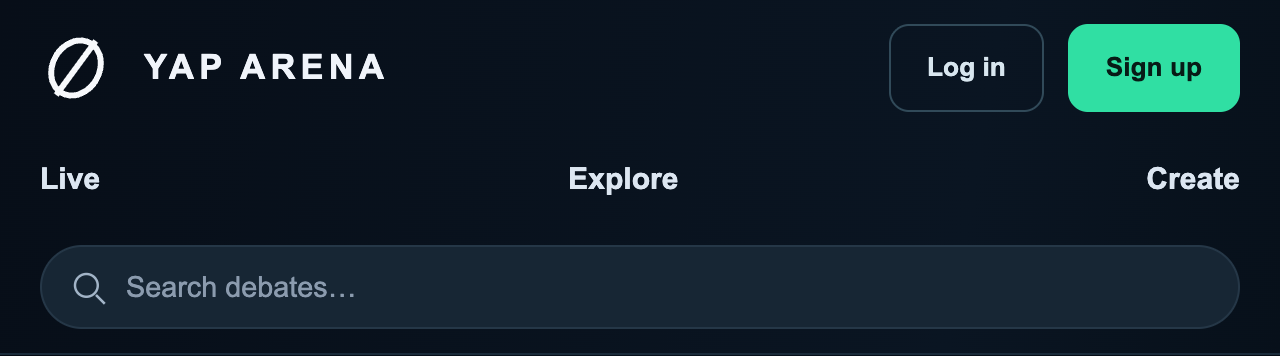
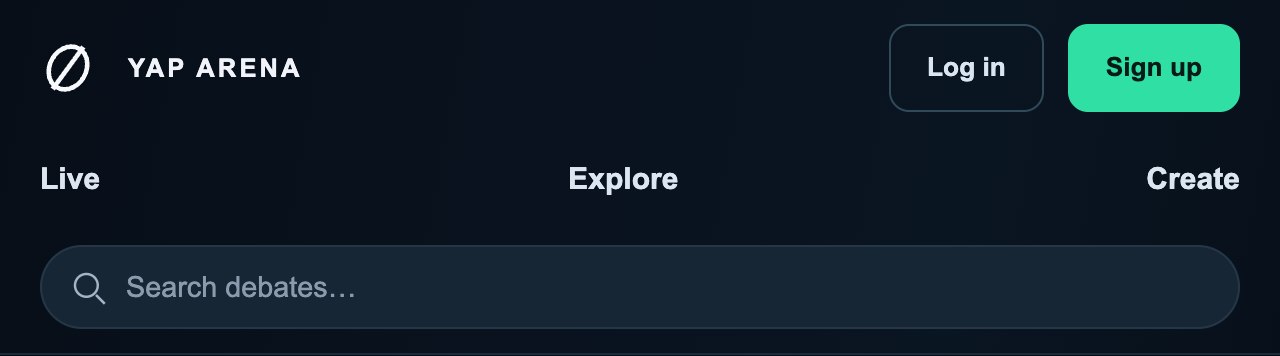
Keep responsive navigation styles shared across pages

Changed region(s): [[0.0312, 0.0927, 0.3125, 0.2781]]

diff --git a/scripts/verify-email-auth-browser.ts b/scripts/verify-email-auth-browser.ts
@@ -64,6 +64,13 @@ app.get("/test/entry", (_request, response) =>
       ),
   ),
 );
+app.get("/test/header-only", (_request, response) =>
+  response.send(
+    renderAbout(base)
+      .replace('<html lang="en">', '<html lang="en" data-email-first>')
+      .replace(/<link rel="stylesheet" href="\/assets\/arena\.css[^"]*">/, ""),
+  ),
+);
 app.get("/test/debate", (_request, response) =>
   response.send(`<!doctype html><html lang="en" data-email-first><head><title>Auth return fixture</title><link rel="stylesheet" href="/assets/site.css"><link rel="stylesheet" href="/assets/arena.css"><link rel="stylesheet" href="/assets/site-header.css"><script defer src="/test/axe.js"></script></head><body>
   <main><a href="/account?next=%2Ftest%2Fdebate" id="return-link">Sign in to participate</a>
@@ -193,11 +200,66 @@ try {
         await page.locator("[data-site-header]").screenshot({
           path: resolve(directory, `header-${state}-zoom.png`),
         });
+        checks.push(`${name}: ${state} header reflows at 200% CSS zoom`);
       } finally {
         await page.evaluate(() => {
           document.documentElement.style.zoom = "";
         });
         await page.setViewportSize(viewport);
+      }
+    }
+    async function compareSharedHeaderStyles() {
+      const other = await context.newPage();
+      try {
+        await other.goto(`${base}/test/header-only`);
+        await other
+          .locator('[data-site-header][data-session="guest"]')
+          .waitFor();
+        await other.evaluate(() => document.fonts.ready);
+        const snapshot = () =>
+          [
+            ".brand",
+            ".arena-brand-symbol",
+            ".arena-nav nav",
+            ".arena-nav nav a",
+            ".arena-header-search",
+            ".arena-header-search input",
+            ".arena-header-account",
+            ".header-login",
+            ".header-signup",
+          ].map((selector) => {
+            const node = document.querySelector(selector)!;
+            const style = getComputedStyle(node);
+            const bounds = node.getBoundingClientRect();
+            return {
+              selector,
+              fontSize: style.fontSize,
+              fontFamily: style.fontFamily,
+              lineHeight: style.lineHeight,
+              color: style.color,
+              background: style.backgroundColor,
+              borderWidth: style.borderWidth,
+              borderRadius: style.borderRadius,
+              letterSpacing: style.letterSpacing,
+              padding: style.padding,
+              gap: style.gap,
+              x: bounds.x,
+              y: bounds.y,
+              width: bounds.width,
+              height: bounds.height,
+            };
+          });
+        assert.deepEqual(
+          await other.evaluate(snapshot),
+          await page.evaluate(snapshot),
+          "shared header appearance does not depend on the debate stylesheet",
+        );
+        checks.push(
+          `${name}: identical header geometry, typography and colors with and without debate styles`,
+        );
+      } finally {
+        await other.close();
+        await page.bringToFront();
       }
     }
     page.on("pageerror", (error) => errors.push(error.message));
@@ -637,6 +699,7 @@ try {
       "public browsing does not load the provider bundle",
     );
     assert.equal(await page.locator("[data-header-member]").isVisible(), false);
+    await compareSharedHeaderStyles();
     await page.screenshot({
       path: resolve(directory, `header-guest-${name}.png`),
       fullPage: false,

diff --git a/public/site-header.css b/public/site-header.css
@@ -1,3 +1,88 @@
+@media (max-width: 1190px) {
+  .arena-nav {
+    gap: 22px;
+  }
+  .arena-nav nav {
+    gap: 20px;
+  }
+  .brand {
+    font-size: 0.9rem;
+    gap: 10px;
+  }
+  .arena-header-search {
+    max-width: 300px;
+  }
+  .arena-header-account {
+    gap: 9px;
+  }
+}
+@media (max-width: 920px) {
+  .arena-nav {
+    flex-wrap: wrap;
+    gap: 8px 20px;
+    padding-block: 12px;
+  }
+  .arena-header-search {
+    order: 4;
+    max-width: none;
+    flex-basis: 100%;
+  }
+  .arena-header-account {
+    margin-left: auto;
+  }
+  .arena-nav nav {
+    margin-left: auto;
+  }
+  .arena-wallet-menu summary {
+    font-size: 0.75rem;
+    padding: 5px 10px;
+  }
+}
+@media (max-width: 740px) {
+  .site-header .container {
+    width: calc(100% - 28px);
+  }
+  .arena-nav {
+    gap: 10px;
+  }
+  .arena-nav .brand {
+    font-size: 0.8rem;
+    letter-spacing: 0.12em;
+  }
+  .arena-brand-symbol {
+    width: 28px;
+    height: 32px;
+  }
+  .arena-nav nav {
+    order: 3;
+    width: 100%;
+    justify-content: space-between;
+    padding: 0 10px;
+    font-size: 0.85rem;
+  }
+  .arena-nav nav a {
+    padding: 4px 0;
+  }
+  .arena-header-account {
+    gap: 8px;
+  }
+  .arena-wallet-menu summary svg {
+    width: 17px;
+  }
+  .arena-wallet-menu summary {
+    min-height: 36px;
+    padding: 5px 8px;
+    gap: 5px;
+    font-size: 0.68rem;
+  }
+  .arena-avatar {
+    width: 34px;
+    height: 34px;
+  }
+  .arena-header-search {
+    order: 4;
+  }
+}
 .site-header {
   container: site-header / inline-size;
   background: linear-gradient(100deg, #070e18, #0a1522 75%, #07101a);
@@ -35,7 +120,7 @@
   padding: 12px 0;
 }
 .arena-nav nav a:hover {
-  color: var(--ice);
+  color: #8bcfff;
 }
 .arena-header-search {
   margin: 0 auto;
@@ -45,13 +130,19 @@
   position: relative;
 }
 .arena-header-search input {
+  font-family: inherit;
+  line-height: 1.5;
   width: 100%;
   min-height: 42px;
   padding: 9px 18px 9px 42px;
   border-radius: 28px;
-  border-color: #253747;
+  border: 1px solid #253747;
   background: #172634;
+  color: var(--text);
   font-size: 0.9rem;
+}
+.arena-header-search input::placeholder {
+  color: #8b9bae;
 }
 .arena-header-search svg {
   width: 21px;
@@ -857,5 +948,16 @@
   .site-header .arena-avatar {
     width: 38px;
     height: 38px;
+  }
+}
+
+@container site-header (max-width: 740px) {
+  .arena-nav .brand {
+    font-size: 0.8rem;
+    letter-spacing: 0.12em;
+  }
+  .arena-brand-symbol {
+    width: 28px;
+    height: 32px;
   }
 }

diff --git a/public/arena.css b/public/arena.css
@@ -1278,22 +1278,6 @@ textarea::placeholder {
   }
 }
 @media (max-width: 1190px) {
-  .arena-nav {
-    gap: 22px;
-  }
-  .arena-nav nav {
-    gap: 20px;
-  }
-  .brand {
-    font-size: 0.9rem;
-    gap: 10px;
-  }
-  .arena-header-search {
-    max-width: 300px;
-  }
-  .arena-header-account {
-    gap: 9px;
-  }
   .arena-left {
     flex-basis: 270px;
   }
@@ -1313,26 +1297,6 @@ textarea::placeholder {
   }
 }
 @media (max-width: 920px) {
-  .arena-nav {
-    flex-wrap: wrap;
-    gap: 8px 20px;
-    padding-block: 12px;
-  }
-  .arena-header-search {
-    order: 4;
-    max-width: none;
-    flex-basis: 100%;
-  }
-  .arena-header-account {
-    margin-left: auto;
-  }
-  .arena-nav nav {
-    margin-left: auto;
-  }
-  .arena-wallet-menu summary {
-    font-size: 0.75rem;
-    padding: 5px 10px;
-  }
   .arena-workspace {
     padding-inline: 10px;
     gap: 10px;
@@ -1368,49 +1332,6 @@ textarea::placeholder {
   }
 }
 @media (max-width: 740px) {
-  .site-header .container {
-    width: calc(100% - 28px);
-  }
-  .arena-nav {
-    gap: 10px;
-  }
-  .arena-nav .brand {
-    font-size: 0.8rem;
-    letter-spacing: 0.12em;
-  }
-  .arena-brand-symbol {
-    width: 28px;
-    height: 32px;
-  }
-  .arena-nav nav {
-    order: 3;
-    width: 100%;
-    justify-content: space-between;
-    padding: 0 10px;
-    font-size: 0.85rem;
-  }
-  .arena-nav nav a {
-    padding: 4px 0;
-  }
-  .arena-header-account {
-    gap: 8px;
-  }
-  .arena-wallet-menu summary svg {
-    width: 17px;
-  }
-  .arena-wallet-menu summary {
-    min-height: 36px;
-    padding: 5px 8px;
-    gap: 5px;
-    font-size: 0.68rem;
-  }
-  .arena-avatar {
-    width: 34px;
-    height: 34px;
-  }
-  .arena-header-search {
-    order: 4;
-  }
   .arena-workspace {
     display: flex;
     flex-direction: column;

diff --git a/docs/evidence/shared-header/README.md b/docs/evidence/shared-header/README.md
@@ -93,9 +93,12 @@ The follow-up uses container queries in addition to viewport fallbacks so layout
 responds to the space the header actually has. Focused synthetic
 [visitor](after/header-guest-zoom.png) and
 [member](after/header-member-zoom.png) checks now verify 1280 × 900 at 200% zoom.
-The community browser's existing zoom, narrow-screen, draft recovery, IME,
-reconnect, moderation and axe checks also pass locally. The full community soak
-and new GitHub CI run are recorded separately when complete.
+The [complete community trial](community-results.json) passed locally, including
+the existing zoom, narrow-screen, draft recovery, IME, reconnect, moderation and
+axe checks, plus a 300-second synthetic 500-client/50-room HTTP soak and cleanup.
+This is not hosted/media capacity evidence. Remaining responsive rules now live
+in the shared stylesheet; desktop/mobile comparisons verify identical header
+geometry, typography and colors without depending on the debate stylesheet.
 
 ## Hosted observations
 
